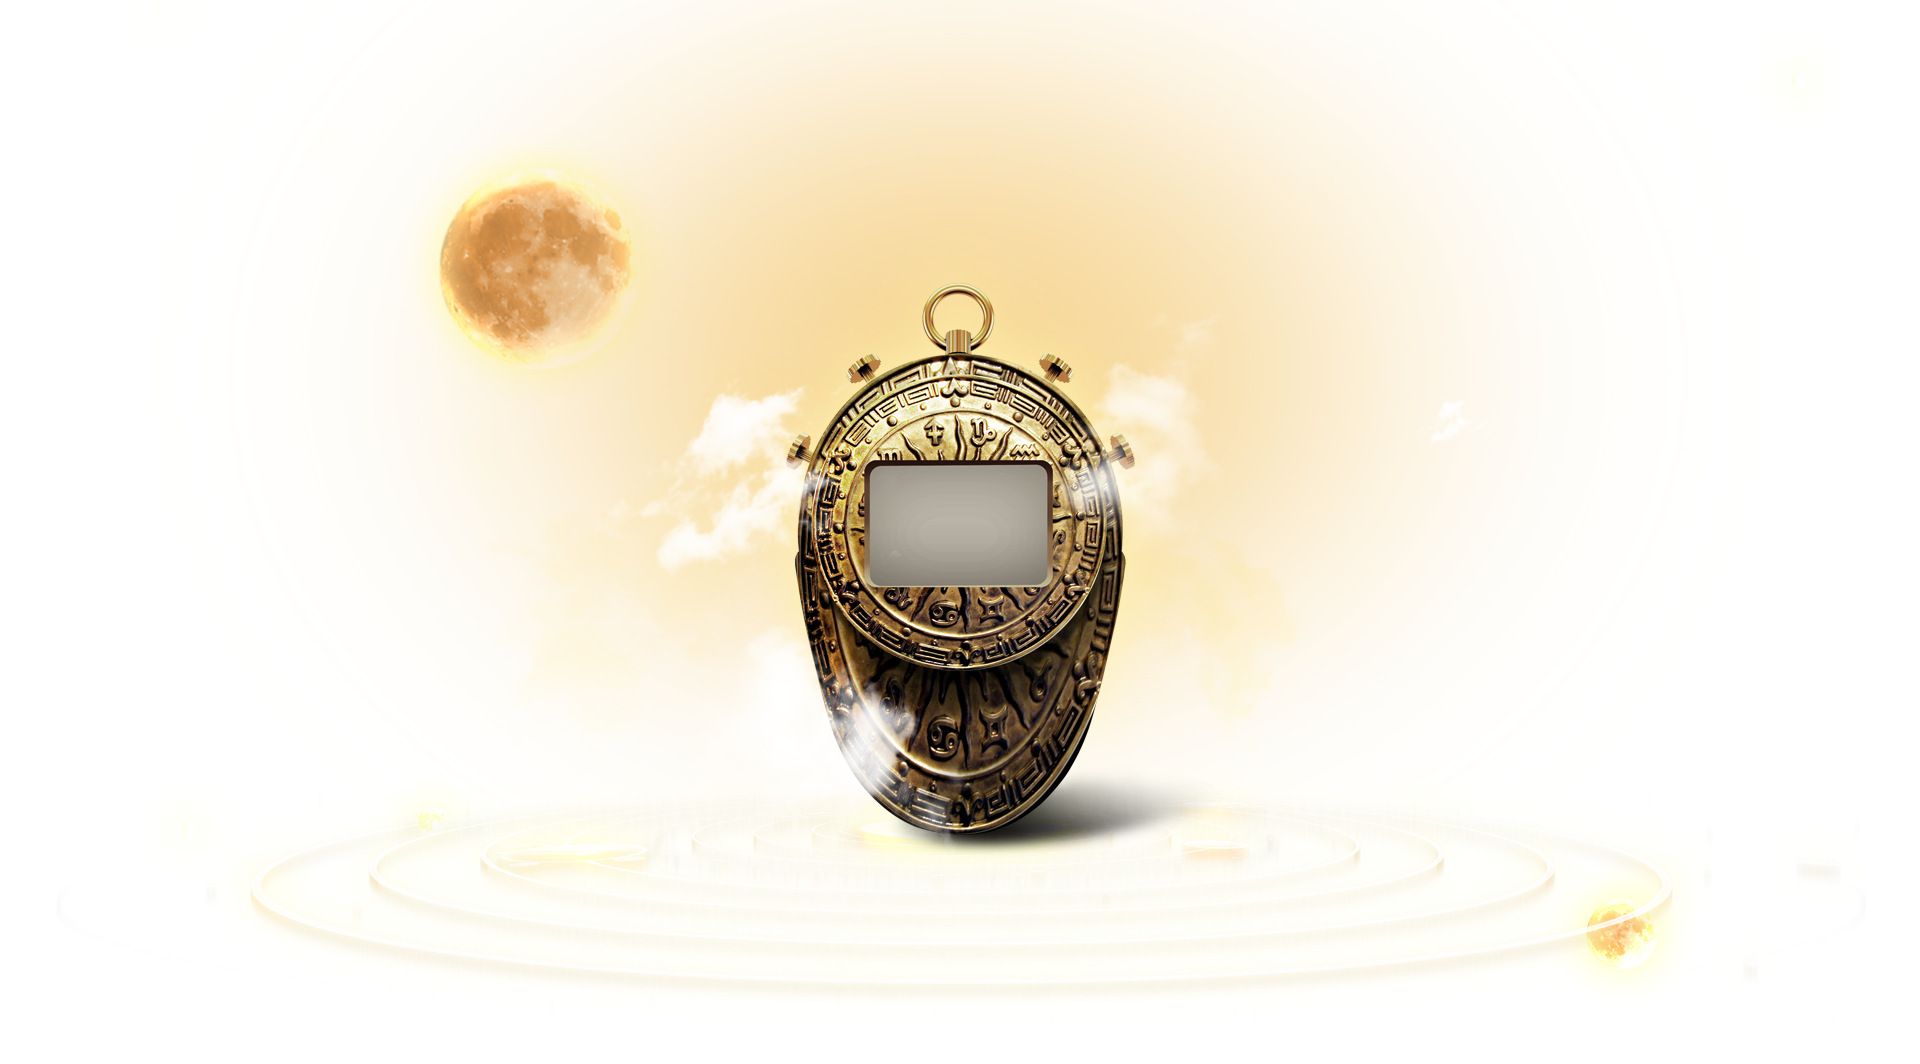
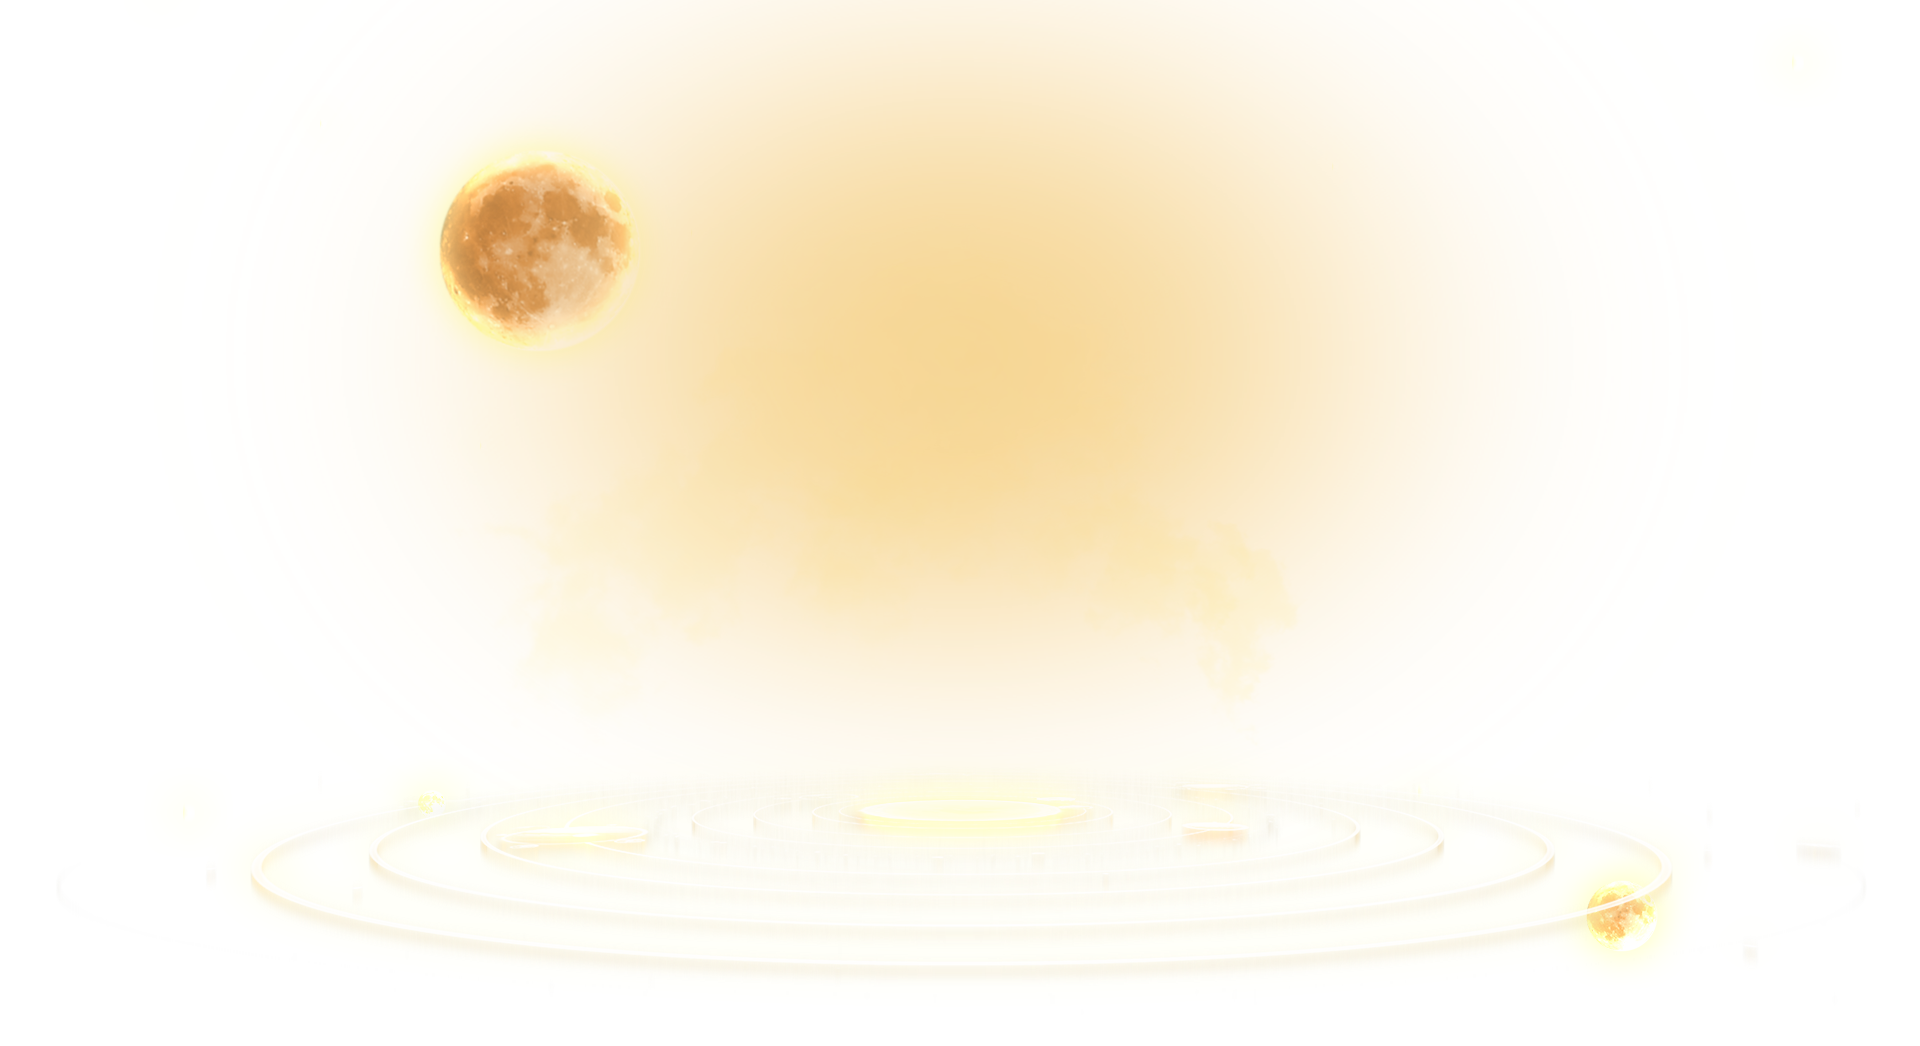
Novas Nuvens

diff --git a/index.php b/index.php
@@ -51,15 +51,25 @@
 		#article-title span { background: url('article-title.png'); }
 
 		p { font-family: 'digital-7regular'; }
-		#article-clock { font-size: 45px; }
-		#article-date { font-size: 25px; }
+		#article-clock { font-size: 45px; color: #dacc6d; }
+		#article-date { font-size: 25px; color: #FFF; }
 		#wrap-article-clock {
 			position: absolute;
 			left: 50%;
-			margin-left: -84px; 
-			top: 484px;
-			text-align: center;
+			margin-left: -375px; 
+			top: 195px;
+			background: url('time.png') left top no-repeat;
+			width: 375px; height: 369px;
+			padding: 262px 0 0 292px;
 		}
+		#wrap-article-clock p { width: 175px; text-align: center; }
+
+		.article-cloud { position: absolute; }
+		#cloud-left-bottom { top: 160px; }
+		#cloud-left-top { top: 270px; }
+		#cloud-right-bottom { top: 200px; right: 0; }
+		#cloud-right-top { top: 120px; right: 0; }
+
 		#fork-me { position: absolute; top: 0; right: 0; }
 	</style>
 	<script type="text/javascript" src="all.js"></script>
@@ -67,6 +77,9 @@
 <body>
 	<article id="article" class="content">
 		<h1 id="article-title" class="replacement">O mundo ainda pode acabar:<span></span></h1>
+
+		<img id="cloud-left-bottom" class="article-cloud" src="cloud-left-bottom.png" alt="">
+		<img id="cloud-left-top" class="article-cloud" src="cloud-left-top.png" alt="">
 
 		<div id="wrap-article-clock">
 <?php 
@@ -81,6 +94,9 @@
 
 			<p id="article-date"><?php echo date('d/m/Y'); ?></p>
 		</div>
+
+		<img id="cloud-right-bottom" class="article-cloud" src="cloud-right-bottom.png" alt="">
+		<img id="cloud-right-top" class="article-cloud" src="cloud-right-top.png" alt="">
 
 		<a href="https://github.com/wbruno/theend" id="fork-me" target="_blank">
 			<img src="fork-me.png" alt="Fork me on GitHub" width="149" height="149" /></a>
